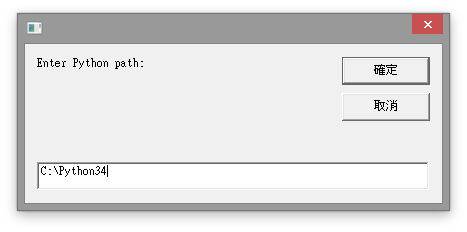
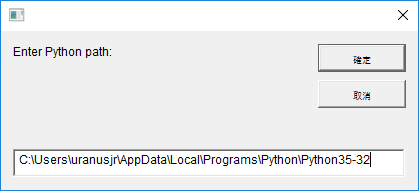
Upgrade installation tutorial on Windows
Screenshots are re-taken on Windows 10.
Git 2.9.0 and Python 3.5.1 are now used.

Changed region(s): [[0.0, 0.0, 1.0, 1.0]]

diff --git a/pages/static/pages/posts/tutorials/installation.textbundle/text.md b/pages/static/pages/posts/tutorials/installation.textbundle/text.md
@@ -6,7 +6,7 @@ os_switch: true
 本節將引導你安裝並設定專案所需要的環境。我們會進行以下的步驟：
 
 1. 安裝 Git。
-2. 安裝 Python 3.4。
+2. 安裝 Python 3.5。
 
 ((( windows
 
@@ -30,33 +30,35 @@ os_switch: true
 
 ![將 Git 安裝根目錄記錄於記事本](assets/windows/git-record-path.png)
 
-接著回到安裝程式，繼續按下一步，直到它開始安裝。直到出現這個畫面，就代表安裝完成。
+接著回到安裝程式，繼續按下一步，直到它開始安裝。當出現這個畫面時，就代表安裝完成。
 
 ![Git 安裝完成](assets/windows/git-installation-done.png)
 
-先別急著按 Finish！中間有個「View ReleaseNotes.rtf」先取消打勾，再按 Finish 關掉視窗。如果你忘了取消，就會再另外跳一個視窗出來——也別緊張，關掉它就好了，不會怎樣。
+先別急著按 Finish！中間有個「View Release Notes」先取消打勾，再按 Finish 關掉視窗。如果你忘了取消，就會再另外跳一個視窗出來——也別緊張，關掉它就好了，不會怎樣。
 
 ### 安裝 Python
 
-首先[下載 Python 3.4.1](http://www.python.org/ftp/python/3.4.1/python-3.4.1.msi)。雙擊下載後的安裝檔，你應該會看到這個畫面
+首先[下載 Python 3.5.1](https://www.python.org/ftp/python/3.5.1/python-3.5.1.exe)。下載後雙擊安裝檔。如果你看到確認執行應用程式的視窗：
+
+![Python 確認執行視窗](assets/windows/python-run-alert.png)
+
+請選擇「執行」。
+
+在開始安裝的初始畫面中：
 
 ![Python 安裝初始畫面](assets/windows/python-installation-start.png)
 
-請按下一步。現在應該會出現這個畫面：
+請確認「Install launcher for all users」**不要**打勾。接著選擇「Customize installation」，按下一步，直到出現下面的畫面：
 
 ![Python 安裝根目錄畫面](assets/windows/python-installation-root.png)
 
-請把最畫面文字框內的文字同樣記到記事本裡。現在你的記事本應該會長這樣：
+把「Customize install location」下面文字框內的文字同樣記到記事本裡。現在你的記事本應該會長這樣：
 
 ![將 Python 安裝根目錄記錄於記事本](assets/windows/python-record-path.png)
 
-回到安裝程式，再按一次下一步。應該會出現這個畫面：
+回到安裝程式，再按一次下一步，就會開始安裝。稍等一會兒，直到出現這個畫面
 
-![Python 3.4.1 安裝元件畫面](assets/windows/python-installation-customize.png)
-
-確認**只有最後一個選項**打叉，按下一步開始安裝。安裝程式可能會要求管理員權限，請在提示視窗中確認。稍等一會兒，直到出現這個畫面
-
-![Python 3.4.1 安裝完成畫面](assets/windows/python-installation-done.png)
+![Python 安裝完成畫面](assets/windows/python-installation-done.png)
 
 就代表安裝完成了！
 
@@ -70,7 +72,7 @@ os_switch: true
 
 當你輸入兩個路徑後，程式會結束。然後你的桌面應該會出現一個叫做「Django Environment」的捷徑。
 
-> 如果你使用 Windows Vista 或 XP，上述安裝可能會出現錯誤。我們強烈建議立即升級至 Windows 7 或更新版本。
+> 如果你使用 Windows Vista 或 XP，上述安裝可能會出現錯誤。我們強烈建議立即升級至 Windows 10。
 
 ![Django Environment 桌面捷徑](assets/windows/django-desktop-icon.png)
 
